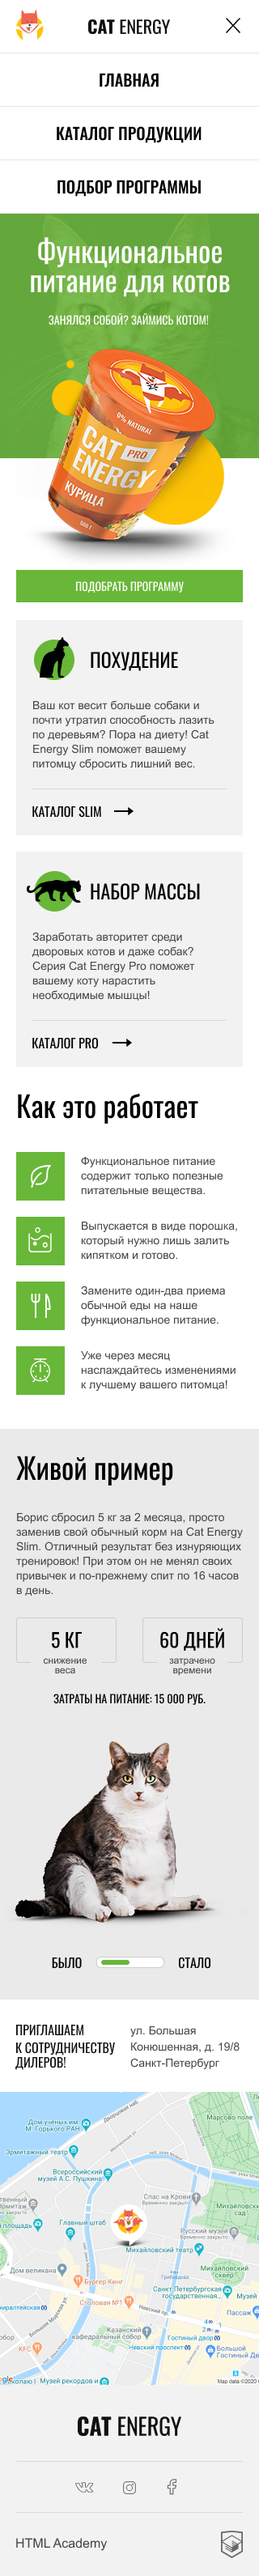
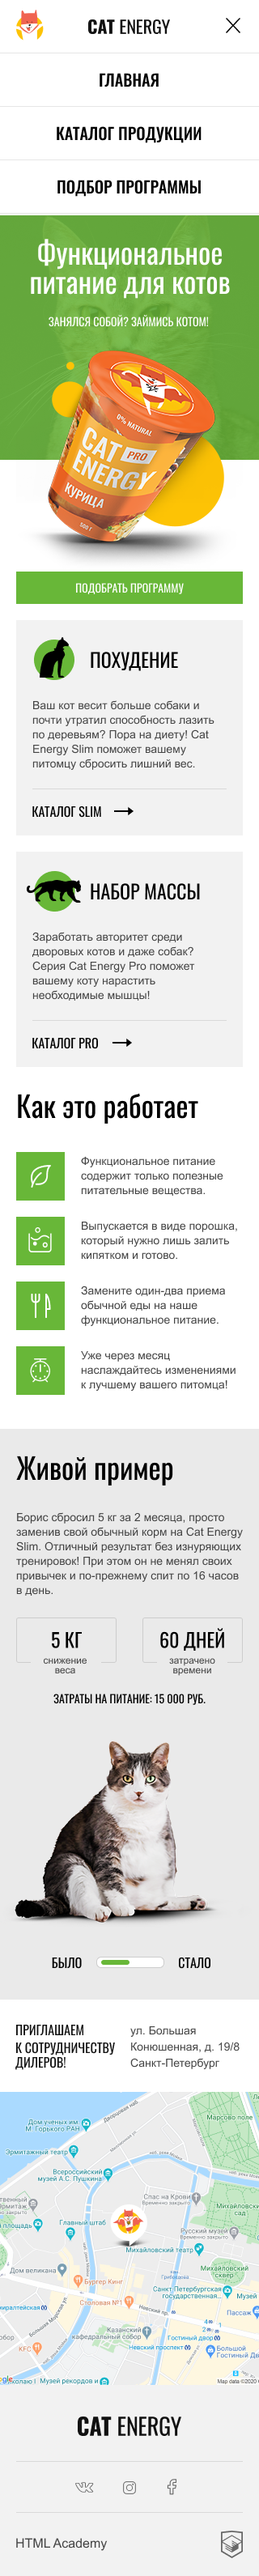
главная до example

Changed region(s): [[0.1562, 0.0933, 0.875, 0.2489]]

diff --git a/source/sass/blocks/page-header.scss b/source/sass/blocks/page-header.scss
@@ -95,23 +95,17 @@
     background-image: linear-gradient(to right, $white 50%, transparent 50%), url("../img/desktop-cat.jpg"), linear-gradient(to right, $white 50%, #64a73d 50%);
     background-repeat: no-repeat;
     background-position: right;
-    margin-bottom: 85px;
-  }
+    margin-bottom: 87px;
 
-  .page-header--index::before {
-    content: "";
-    position: absolute;
-    top: 0;
-    left: 50%;
-    width: 50%;
-    height: 694px;
-    background-image: url("../img/index-background-desktop.jpg");
-    background-repeat: no-repeat;
+    @media (min-resolution: 2dppx) {
+      background-image: linear-gradient(to right, $white 50%, transparent 50%), url("../img/desktop-cat@2x.jpg"), linear-gradient(to right, $white 50%, #64a73d 50%);
+      background-size: auto, 720px auto, auto;
+    }
   }
 
   .page-header__wrapper {
     background: transparent;
-    padding-top: 53px;
+    padding-top: 50px;
   }
 
   .page-header__wrapper--index {

diff --git a/source/sass/blocks/explanation.scss b/source/sass/blocks/explanation.scss
@@ -120,25 +120,24 @@
     top: 40px;
   }
 
+  .explanation__item--ingredients::before {
+    background-position: left 27px top 26px, 0 0;
+    background-size: 25px 28px, auto;
+  }
+
   .explanation__item--product-format::before {
-    width: 80px;
-    height: 80px;
-    background-size: 100%;
-    top: 40px;
+    background-position: left 25px top 25px, 0 0;
+    background-size: 29px 31px, auto;
   }
 
   .explanation__item--meals-number::before {
-    width: 80px;
-    height: 80px;
-    background-size: 100%;
-    top: 40px;
+    background-position: left 28px top 25px, 0 0;
+    background-size: 25px 30px, auto;
   }
 
   .explanation__item--changes::before {
-    width: 80px;
-    height: 80px;
-    background-size: 100%;
-    top: 40px;
+    background-position: left 28px top 25px, 0 0;
+    background-size: 25px 30px, auto;
   }
 }
 

diff --git a/source/sass/blocks/plan-item.scss b/source/sass/blocks/plan-item.scss
@@ -180,22 +180,26 @@
     padding-left: 162px;
   }
 
-  .plan-item__title--weight-lose::before {
-    position: absolute;
-    content: url("https://via.placeholder.com/100x106");
+  .plan-item__title::before {
     width: 100px;
-    height: 106px;
+    height: 100px;
+    top: -30px;
     left: 0;
-    top: -35px;
   }
 
-  .plan-item__title--weight-gain::before {
-    position: absolute;
-    content: url("https://via.placeholder.com/134x100");
+  .plan-item__title--weight-lose::after {
+    width: 70px;
+    height: 97px;
+    left: 14px;
+    top: -37px;
+    // top: -35px;
+  }
+
+  .plan-item__title--weight-gain::after {
     width: 134px;
-    height: 100px;
+    height: 56px;
     left: -20px;
-    top: -30px;
+    top: -10px;
   }
 
   .plan-item__description {

diff --git a/source/sass/blocks/promo.scss b/source/sass/blocks/promo.scss
@@ -6,11 +6,12 @@
 .promo__background-wrapper {
   background-image: url("../img/mobile-cat.jpg"), linear-gradient(to right, #64a73c 50%, #62a53a 50%);
   background-repeat: no-repeat;
-  background-position: center -30px;
+  background-position: center 0;
 
   @media (min-resolution: 2dppx) {
     background-image: url("../img/mobile-cat@2x.jpg"), linear-gradient(to right, #64a73c 50%, #62a53a 50%);
     background-size: 320px auto, auto;
+    background-repeat: no-repeat;
   }
 }
 
@@ -96,8 +97,8 @@
     z-index: 0;
     width: 552px;
     height: 499px;
-    transform: translateX(-25%);
-    top: -20px;
+    transform: translateX(-29%);
+    top: -83px;
   }
 
   .promo__title {

diff --git a/source/sass/blocks/main-nav.scss b/source/sass/blocks/main-nav.scss
@@ -20,7 +20,6 @@
 
 @media (min-width: $desktop-width) {
   .main-nav {
-    // padding-top: 69px;
     z-index: 2;
   }
 }

diff --git a/source/index.html b/source/index.html
@@ -35,7 +35,7 @@
     }
 
     body {
-      opacity: 1;
+      opacity: 0.5;
     }
 
   </style>
